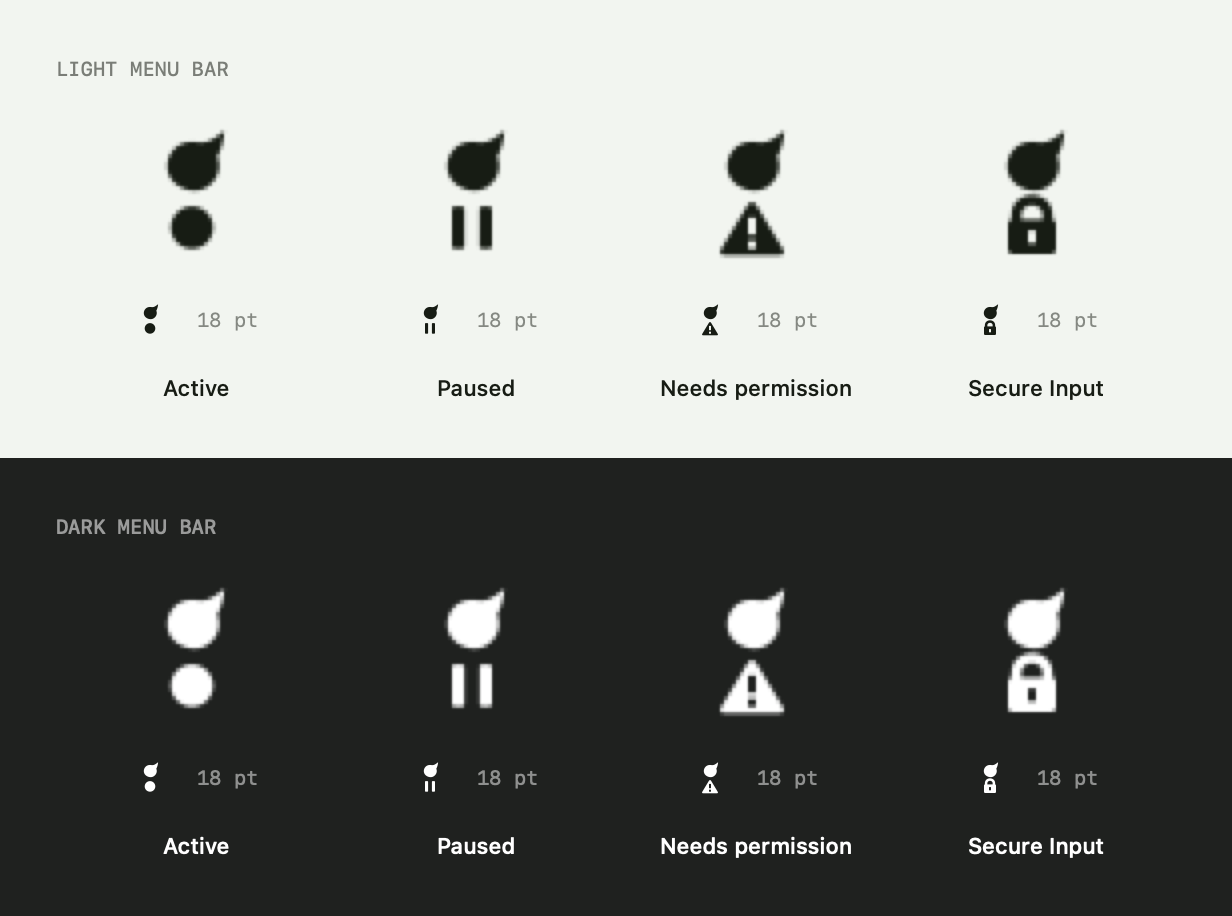
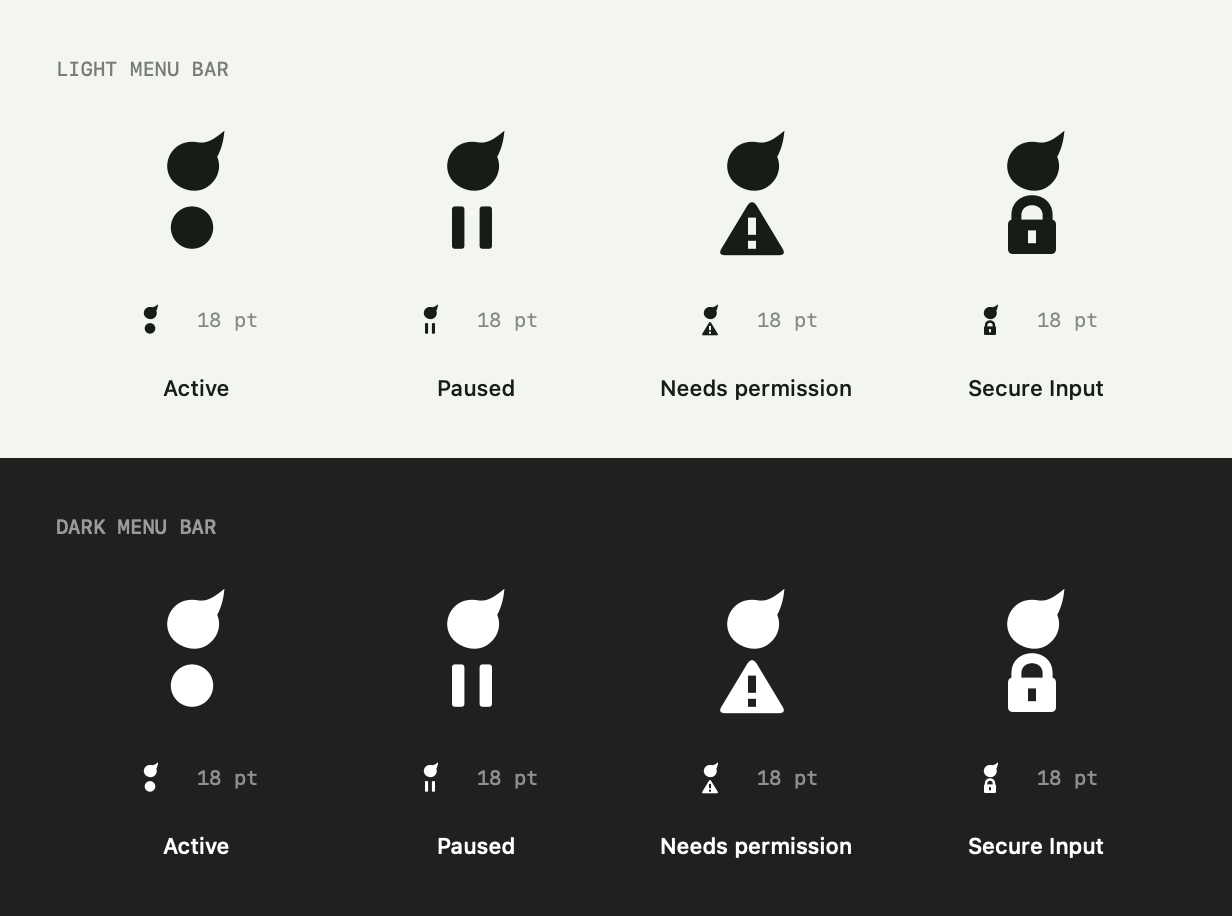
fix(palette): centre the search text, placeholder and caret

diff --git a/Kudzu/Panels/SearchPaletteView.swift b/Kudzu/Panels/SearchPaletteView.swift
@@ -83,7 +83,7 @@ private struct PaletteSearchField: View {
                 .frame(maxWidth: .infinity, alignment: .leading)
         } else {
             PaletteAppKitSearchField(model: model)
-                .frame(maxWidth: .infinity, maxHeight: 28)
+                .frame(maxWidth: .infinity, minHeight: 28, maxHeight: 28)
         }
     }
 }
@@ -128,9 +128,44 @@ private struct PaletteAppKitSearchField: NSViewRepresentable {
     /// Takes focus as soon as it lands in the panel, which the first `show()` can't do because
     /// SwiftUI builds the view after the panel is ordered in.
     final class FocusingTextField: NSTextField {
+        override class var cellClass: AnyClass? {
+            get { CenteredTextFieldCell.self }
+            set {}
+        }
+
         override func viewDidMoveToWindow() {
             super.viewDidMoveToWindow()
             window?.makeFirstResponder(self)
+        }
+    }
+
+    /// Centres the text, placeholder and caret vertically. `NSTextFieldCell` pins one line to the top
+    /// of its frame, and Geist's tall line box made the text sit visibly below the search icon.
+    final class CenteredTextFieldCell: NSTextFieldCell {
+        private func centered(_ rect: NSRect) -> NSRect {
+            guard let font else { return rect }
+            let lineHeight = ceil(NSLayoutManager().defaultLineHeight(for: font))
+            let height = min(rect.height, lineHeight)
+            // Optical centre: put the middle of the capitals (baseline − cap height / 2) on the frame's
+            // middle, which lines the text up with the search icon beside it. The field is flipped.
+            let opticalTop = font.ascender - font.capHeight / 2
+            let top = min(max(rect.minY, rect.midY - opticalTop), rect.maxY - height)
+            return NSRect(x: rect.minX, y: round(top), width: rect.width, height: height)
+        }
+
+        override func titleRect(forBounds rect: NSRect) -> NSRect { centered(super.titleRect(forBounds: rect)) }
+
+        override func drawingRect(forBounds rect: NSRect) -> NSRect { centered(super.drawingRect(forBounds: rect)) }
+
+        override func edit(withFrame rect: NSRect, in controlView: NSView, editor textObj: NSText,
+                           delegate: Any?, event: NSEvent?) {
+            super.edit(withFrame: centered(rect), in: controlView, editor: textObj, delegate: delegate, event: event)
+        }
+
+        override func select(withFrame rect: NSRect, in controlView: NSView, editor textObj: NSText,
+                             delegate: Any?, start selStart: Int, length selLength: Int) {
+            super.select(withFrame: centered(rect), in: controlView, editor: textObj, delegate: delegate,
+                         start: selStart, length: selLength)
         }
     }
 

diff --git a/Packages/KudzuUI/README.md b/Packages/KudzuUI/README.md
@@ -318,12 +318,14 @@ A test checks that the SVGs match the Swift source.
 
 | State | Source |
 | --- | --- |
-| `.active` | `kudzu-menubar.svg` (design system) |
-| `.paused` | `kudzu-menubar-paused.svg` (design system) |
-| `.permissionsMissing` | `design/kudzu/additions/kudzu-menubar-permissions.svg`: outlined leaf and a knocked-out warning triangle |
-| `.secureInput` | `design/kudzu/additions/kudzu-menubar-secure-input.svg`: outlined leaf and a small padlock |
+| `.active` | `kudzu-menubar.svg`: sprouting colon, matching the app icon legend |
+| `.paused` | `kudzu-menubar-paused.svg`: sprouting dot above pause bars |
+| `.permissionsMissing` | `design/kudzu/additions/kudzu-menubar-permissions.svg`: sprouting dot above a warning triangle |
+| `.secureInput` | `design/kudzu/additions/kudzu-menubar-secure-input.svg`: sprouting dot above a small padlock |
 
 A test keeps the bundled copies identical to the design sources.
+
+`design/menu-bar/` contains the matching SVG, vector PDF and transparent PNG exports at 1×, 2× and 3×, plus a light/dark preview. The menu bar mark omits the app icon's keycap and fine leaf vein to stay legible at 18pt.
 
 ### SF Symbol mapping
 
